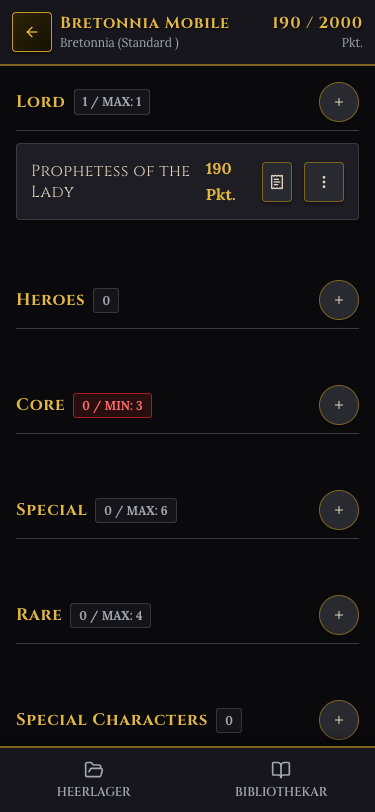
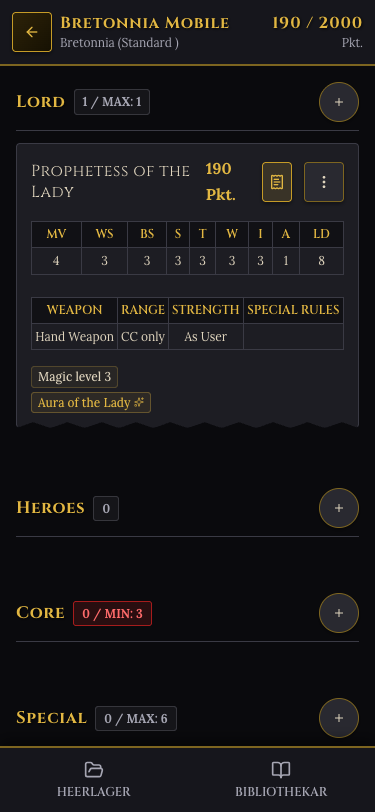
docs: expand unit options details in roster editor screenshots

diff --git a/scripts/generate_screenshots.js b/scripts/generate_screenshots.js
@@ -189,9 +189,6 @@ const runSessionForMode = async (mode) => {
     await page.waitForSelector('.builder-layout', { timeout: 10000 });
     await new Promise(r => setTimeout(r, 1000));
 
-    // SCREEN 5: Roster Editor / Builder view
-    await takeScreenshot('05_roster_editor');
-
     // Open Unit Selection / Category Adder bottomsheet
     console.log('Opening CategoryUnitAdder popover/bottomsheet...');
     await page.evaluate(() => {
@@ -210,6 +207,17 @@ const runSessionForMode = async (mode) => {
       if (options.length > 0) options[0].click();
     });
     await new Promise(r => setTimeout(r, 800));
+
+    // Open unit details in Roster Editor
+    console.log('Expanding unit details...');
+    await page.evaluate(() => {
+      const toggleBtn = document.querySelector('.unit-card-details-toggle');
+      if (toggleBtn) toggleBtn.click();
+    });
+    await new Promise(r => setTimeout(r, 800));
+
+    // SCREEN 5: Roster Editor / Builder view (with unit details expanded)
+    await takeScreenshot('05_roster_editor');
 
     // Open unit config (SelectionConfigurator)
     console.log('Opening unit configuration...');